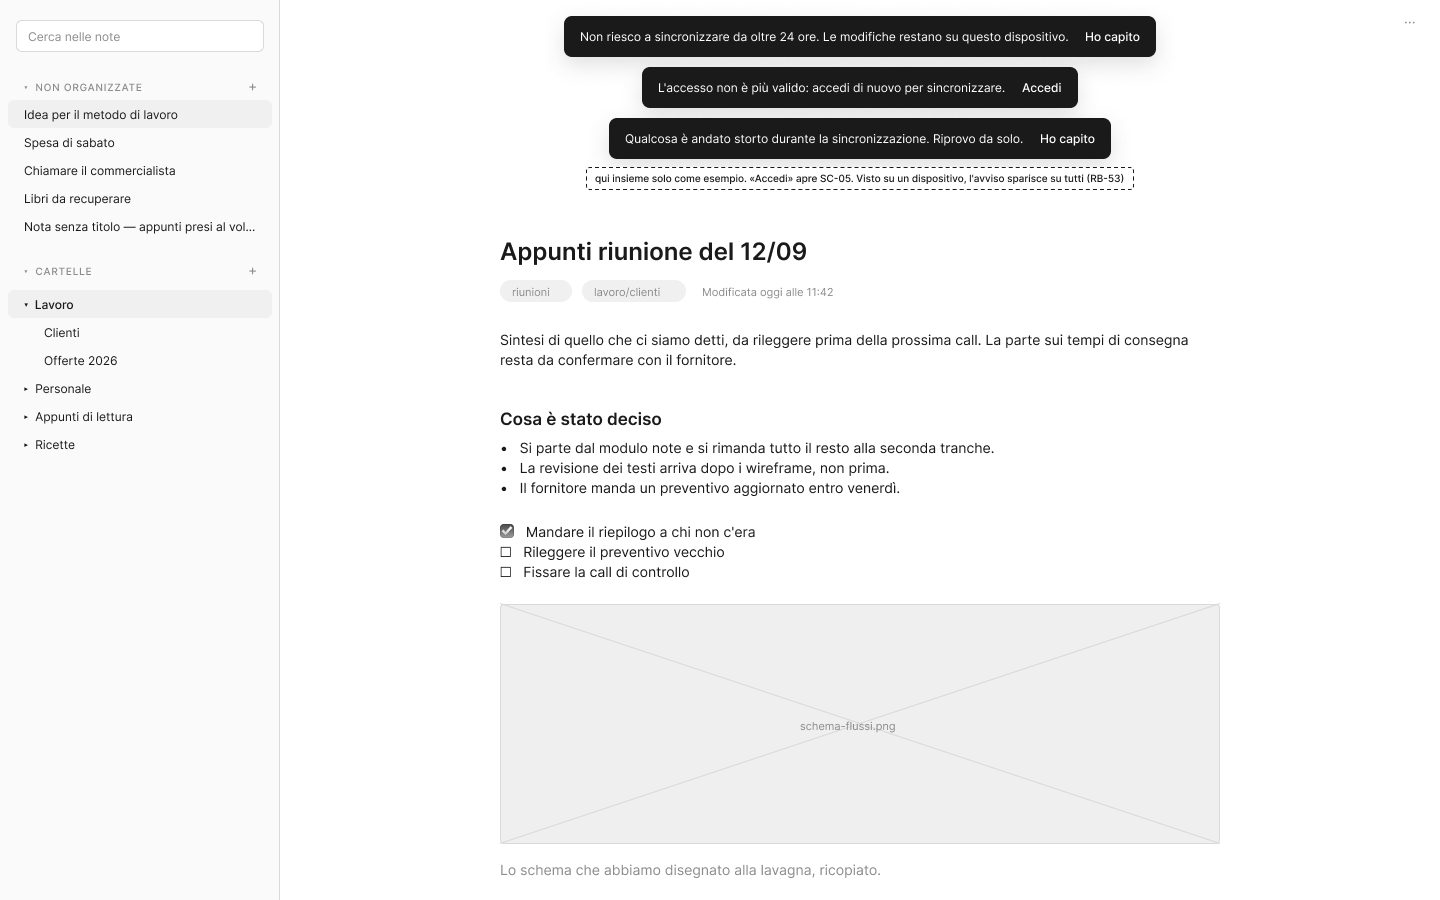
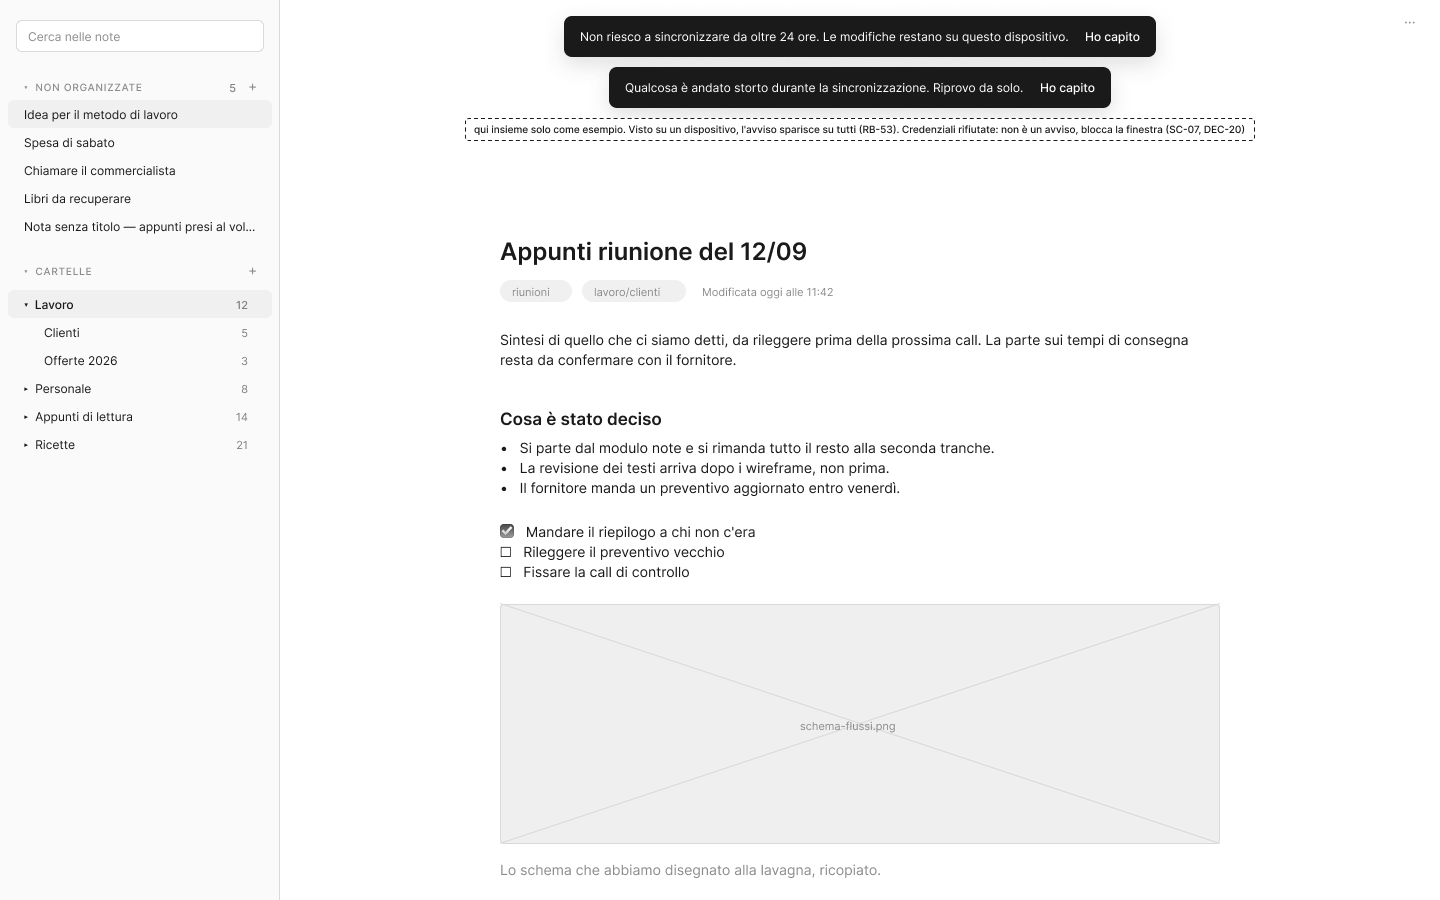
DEC-20 RB-57 RB-58 RB-59: blocco senza credenziali, deduzioni chiuse
- DEC-20: credenziali mancanti o rifiutate bloccano la finestra (SC-07 con Riprova);
  senza rete non si blocca (DEC-02). FL-08, RF-14, RB-40, EN-08 aggiornati
- RB-58: le immagini seguono la loro nota; RB-59: Annulla vale per tutta la nota aperta
- Design system: variante Azione di CMP-18 (Account, DEC-19), variante Blocco di CMP-19
- Wireframe: SC-07, avvisi di FL-07 ridotti a due, SC-05 e Account segnati non attivi

Changed region(s): [[0.3438, 0.0622, 0.875, 0.2178]]

diff --git a/docs/moduli/sincronizzazione/2-flussi.md b/docs/moduli/sincronizzazione/2-flussi.md
@@ -44,7 +44,7 @@ flowchart TD
 | SF-08 Connessione che cade a metà | La sincronizzazione non si completa | Nessun messaggio, se dura poco | Riprova alla sincronizzazione successiva (DEC-02) |
 | SF-20 Riferimenti spariti | Nota creata o spostata in una cartella eliminata altrove | Nessun messaggio | La cartella torna dal cestino (RB-30) |
 | SF-22 Modifica simultanea | Lo stesso elemento cambiato su due dispositivi | Avviso solo per le note in conflitto (RB-39) | DEC-06, RB-36, RB-37, RB-38 |
-| SF-25 Accesso revocato | Il server rifiuta le credenziali | Avviso (RB-40) | Si controlla la configurazione dell'app (FL-08) |
+| SF-25 Accesso revocato | Il server rifiuta le credenziali | Schermata di blocco (RB-57) | Si corregge la configurazione dell'app (FL-08) |
 | SF-30 Servizio esterno fuori uso | Server irraggiungibile oltre la soglia | Avviso (RB-40) | Le modifiche restano sulla copia di lavoro finché il server non torna |
 | SF-31 Notifiche perse | Un conflitto avviene mentre l'utente non guarda | L'avviso resta finché non viene visto | La nota in conflitto resta nella cartella, riconoscibile dal titolo (DEC-06) |
 | SF-32 Errore a metà operazione | Errore durante l'invio o la ricezione | Avviso (RB-40) | Riprova alla sincronizzazione successiva; la copia di lavoro resta intatta |
@@ -66,15 +66,21 @@ flowchart TD
     A[Installo il server: si generano le credenziali dell'installazione - DEC-13] --> B[Installo l'app con le credenziali nel file di configurazione - RB-54]
     B --> C[Apro Memodu]
     C --> D[Le note sono subito disponibili sulla copia di lavoro - RNF-01]
+    C --> M{Le credenziali ci sono nel file?}
+    M -- No --> G
+    M -- Sì --> D
     D --> E{Il server accetta le credenziali?}
     E -- Sì --> F[La sincronizzazione parte in background - FL-07]
-    E -- No --> G[Avviso: credenziali rifiutate - RB-40]
-    G --> H[Si continua a scrivere sulla copia di lavoro; si corregge la configurazione fuori dall'app]
-    H --> C
+    E -- Server irraggiungibile --> R[Si continua sulla copia di lavoro - DEC-02]
+    E -- No --> G[Schermata di blocco al posto della finestra - RB-57, SC-07]
+    G --> H[Si corregge la configurazione fuori dall'app]
+    H --> I[Riprova]
+    I --> M
 ```
 
 ### Percorsi alternativi
-- **Credenziali mancanti o rifiutate:** nessuna schermata di accesso. Compare l'avviso "credenziali rifiutate" e si continua a scrivere sulla copia di lavoro (DEC-02); la configurazione si corregge fuori dall'app.
+- **Credenziali mancanti o rifiutate:** la finestra non si apre; al suo posto c'è la schermata di blocco con Riprova (RB-57, DEC-20). Se il rifiuto arriva con l'app aperta, anche la nota rapida passa alla schermata di blocco: quello che era scritto resta sulla copia di lavoro. La configurazione si corregge fuori dall'app.
+- **Server irraggiungibile:** non blocca; si lavora sulla copia di lavoro (DEC-02, RB-40).
 - **Credenziali perse:** il recupero è rimandato (domanda aperta su RF-10).
 - **Cambio delle credenziali:** come si fa si decide in Fase 7.
 
@@ -82,7 +88,7 @@ flowchart TD
 | Sfiga | Rilevamento | Comunicazione | Via d'uscita |
 |---|---|---|---|
 | SF-07 Dimenticanze | Credenziali perse | Da definire | Rimandato: blocca la Definition of Ready di RF-14 |
-| SF-25 Accesso revocato | Il server rifiuta le credenziali | Avviso (RB-40) | Si corregge la configurazione dell'app |
+| SF-25 Accesso revocato | Credenziali mancanti o rifiutate dal server | Schermata di blocco (SC-07, RB-57) | Si corregge la configurazione dell'app e si preme Riprova |
 
 ### Sfighe considerate e scartate
 - SF-01 Doppio invio: collegarsi due volte non crea nulla di diverso.
@@ -102,7 +108,7 @@ flowchart TD
 | RB-37 | Se una nota è stata spostata in cartelle diverse su due dispositivi, resta nella posizione più recente | FL-07 |
 | RB-38 | Se una cartella è stata rinominata in modo diverso su due dispositivi, prende il nome più recente; accanto nasce una cartella vuota con l'altro nome, come segnale del conflitto | FL-07 |
 | RB-39 | Quando nasce una nota in conflitto (DEC-06) compare un avviso con il collegamento alla nota. La nota in conflitto ha lo stesso titolo seguito da "(copia in conflitto)" | FL-07 |
-| RB-40 | La sincronizzazione è invisibile finché va tutto bene. Compare un avviso solo per: errore di sincronizzazione (subito), credenziali rifiutate (subito), server irraggiungibile oltre una soglia (valore indicativo 24 ore, da fissare in Fase 7) | FL-07 |
+| RB-40 | La sincronizzazione è invisibile finché va tutto bene. Compare un avviso solo per: errore di sincronizzazione (subito), server irraggiungibile oltre una soglia (valore indicativo 24 ore, da fissare in Fase 7) | FL-07 |
 | RB-41 | ~~Uscendo (logout), le modifiche in attesa vengono sincronizzate e poi la copia di lavoro su quel dispositivo viene cancellata~~ Superata da DEC-13 | — |
 | RB-42 | ~~Non c'è limite ai tentativi di accesso con password sbagliata (rischio accettato, DEC-07)~~ Superata da DEC-13 | — |
 | RB-43 | ~~La password non ha requisiti di lunghezza o complessità (rischio accettato, DEC-07)~~ Superata da DEC-13 | — |
@@ -111,3 +117,4 @@ flowchart TD
 | RB-51 | Il nome di un dispositivo viene preso dal sistema (es. nome del PC) e si può cambiare dalle impostazioni | FL-07, FL-08 |
 | RB-53 | Gli avvisi si sincronizzano: compaiono su tutti i dispositivi e, visti su uno, non si mostrano più su nessuno | FL-07 |
 | RB-54 | Un dispositivo si collega all'installazione con le credenziali scritte nel file di configurazione dell'app all'installazione: non ci sono login, email, password né uscita (DEC-13) | FL-08 |
+| RB-57 | Con credenziali mancanti nel file di configurazione, o rifiutate dal server, la finestra principale e la nota rapida non si aprono: al loro posto c'è la schermata di blocco con Riprova, che rilegge la configurazione. Il server irraggiungibile non blocca (DEC-02). Quello che era scritto resta sulla copia di lavoro (DEC-20) | FL-08 |

diff --git a/docs/design-system/componenti.md b/docs/design-system/componenti.md
@@ -658,15 +658,16 @@ Scegliere un giorno scrive la data nel campo, salva (RB-06) e chiude il calendar
 ---
 
 ## CMP-18 – Riga di impostazione
-**Tipo:** composto (usa CMP-03 e CMP-04) · **Usato in:** SC-06 · **Figma:** pagina Componenti composti, [Riga di impostazione](https://www.figma.com/design/ulmeeMyPHDFR0lSR9NquuE?node-id=74-2255)
+**Tipo:** composto (usa CMP-01, CMP-03 e CMP-04) · **Usato in:** SC-06 · **Figma:** pagina Componenti composti, [Riga di impostazione](https://www.figma.com/design/ulmeeMyPHDFR0lSR9NquuE?node-id=74-2255)
 
 **Scopo:** una preferenza, con il suo controllo.
-**Quando usarlo:** in SC-06, una riga per impostazione, raggruppate sotto un titolo (Generale, Ricerca, Dispositivo).
+**Quando usarlo:** in SC-06, una riga per impostazione, raggruppate sotto un titolo (Generale, Ricerca, Dispositivo, Account).
 **Quando non usarlo:** per azioni (pulsante) o per informazioni non modificabili.
 
 ### Varianti e dimensioni
 - **Interruttore:** etichetta (Interfaccia/Normale) e descrizione (Interfaccia/Piccola, `testo-tenue`) a sinistra, interruttore (CMP-04) a destra; tutta la riga si clicca.
 - **Campo:** come sopra, con un campo (CMP-03, largo 200) a destra, es. la scorciatoia della nota rapida o il nome del dispositivo.
+- **Azione:** etichetta e valore (in `testo-tenue`) a sinistra, pulsante secondario (CMP-01) a destra, es. Email con Cambia o Esci. Serve alla sezione Account, progettata ma non attiva (DEC-19). Si attiva solo il pulsante, come il campo.
 - **Titolo di gruppo:** Interfaccia/Etichetta in `testo-tenue`, alto 32.
 - Largo 560, margini 12, 16 tra testo e controllo, su `sfondo-nota`.
 
@@ -692,16 +693,17 @@ Scegliere un giorno scrive la data nel campo, salva (RB-06) e chiude il calendar
 ---
 
 ## CMP-19 – Stato vuoto
-**Tipo:** composto (usa CMP-01 e CMP-02) · **Usato in:** SC-01, SC-03, SC-04 · **Figma:** pagina Componenti composti, [Stato vuoto](https://www.figma.com/design/ulmeeMyPHDFR0lSR9NquuE?node-id=75-2292)
+**Tipo:** composto (usa CMP-01 e CMP-02) · **Usato in:** SC-01, SC-03, SC-04, SC-07 · **Figma:** pagina Componenti composti, [Stato vuoto](https://www.figma.com/design/ulmeeMyPHDFR0lSR9NquuE?node-id=75-2292)
 
 **Scopo:** spiegare perché non c'è niente e cosa fare, al posto di un'area vuota (SF-16).
 **Quando usarlo:** nessuna nota aperta, cestino vuoto, nessuna cartella.
-**Quando non usarlo:** per la ricerca senza risultati (è nella card, CMP-13) o per gli errori (avviso, CMP-15).
+**Quando non usarlo:** per la ricerca senza risultati (è nella card, CMP-13) o per gli errori che non bloccano (avviso, CMP-15).
 
 ### Varianti e dimensioni
 - **Nota:** icona `file-text` 24, «Nessuna nota aperta», spiegazione e il pulsante primario «Nuova nota».
 - **Cestino:** icona elimina 24, «Il cestino è vuoto», spiegazione, senza azioni (niente Svuota cestino).
 - **Colonna:** una riga Interfaccia/Piccola in `testo-tenue`, «Nessuna cartella. Creane una con +».
+- **Blocco:** al posto della finestra quando le credenziali mancano o vengono rifiutate (SC-07, DEC-20). Icona errore 24 in `icona-errore`, «Memodu non riesce a collegarsi», cosa correggere e il pulsante primario «Riprova».
 - Icona in `icona-tenue`, titolo Interfaccia/Media, testo Interfaccia/Normale in `testo-tenue`, centrati, largo 320, 8 px di distanza.
 - I testi sono esempi nel tono di voce; quelli definitivi si scrivono in Fase 6.
 

diff --git a/docs/moduli/sincronizzazione/4-schermate.md b/docs/moduli/sincronizzazione/4-schermate.md
@@ -2,12 +2,12 @@
 
 <!-- Fasi 4 e 6 della guida. Wireframe e mockup restano nello strumento di design: qui si mettono i link. -->
 
-L'impostazione generale è in `moduli/interfaccia/4-schermate.md`. La sincronizzazione non ha schermate proprie: è invisibile finché va tutto bene (RB-40).
+L'impostazione generale è in `moduli/interfaccia/4-schermate.md`. La sincronizzazione è invisibile finché va tutto bene (RB-40). Ha una sola schermata propria, SC-07, quando le credenziali mancano o vengono rifiutate.
 
 ## Avvisi di sincronizzazione (FL-07)
 **Flussi:** FL-07 · **Componenti:** avviso
 
-- **Wireframe:** [i tre avvisi](https://www.figma.com/design/ioeRDMTxu3TEMoLN8rinAK/Memodu--Wireframe--Fase-4-?node-id=38-130) · [nota in conflitto](https://www.figma.com/design/ioeRDMTxu3TEMoLN8rinAK/Memodu--Wireframe--Fase-4-?node-id=32-147)
+- **Wireframe:** [i due avvisi](https://www.figma.com/design/ioeRDMTxu3TEMoLN8rinAK/Memodu--Wireframe--Fase-4-?node-id=38-130) · [nota in conflitto](https://www.figma.com/design/ioeRDMTxu3TEMoLN8rinAK/Memodu--Wireframe--Fase-4-?node-id=32-147)
 - **Esportazioni:** `immagini/SC-01-avvisi.png`
 
 In cima all'area della nota di SC-01, livello 50, uno alla volta:
@@ -15,11 +15,29 @@ In cima all'area della nota di SC-01, livello 50, uno alla volta:
 | Avviso | Quando | Azione |
 |---|---|---|
 | Server irraggiungibile | Oltre la soglia (indicativa 24 ore, RB-40) | Ho capito |
-| Credenziali rifiutate | Subito (SF-25) | Ho capito; la configurazione si corregge fuori dall'app (FL-08) |
 | Errore di sincronizzazione | Subito (SF-32) | Ho capito |
 | Nota in conflitto | Subito (RB-39) | Apri l'altra |
 
-Visto su un dispositivo, l'avviso sparisce su tutti (RB-53).
+Visto su un dispositivo, l'avviso sparisce su tutti (RB-53). Le credenziali rifiutate non sono un avviso: bloccano la finestra (SC-07).
+
+---
+
+## SC-07 – Collegamento bloccato
+**Flussi:** FL-08 · **Componenti:** stato vuoto (variante Blocco), pulsante
+
+- **Wireframe:** [collegamento bloccato](https://www.figma.com/design/ioeRDMTxu3TEMoLN8rinAK/Memodu--Wireframe--Fase-4-?node-id=51-169)
+- **Esportazioni:** `immagini/SC-07.png`
+- **Mockup:** [Fase 6]
+
+Al posto della finestra principale e della nota rapida quando le credenziali mancano nel file di configurazione o il server le rifiuta (RB-57, DEC-20). Finestra vuota con, al centro, icona di errore, «Memodu non riesce a collegarsi», una riga che spiega cosa correggere e il pulsante Riprova. Senza rete non compare (DEC-02).
+
+### Stati della schermata
+| Stato | Descrizione | Testo mostrato |
+|---|---|---|
+| Vuoto | Non previsto | — |
+| Caricamento | Dopo Riprova, il pulsante in caricamento | — |
+| Errore | È la schermata stessa; se Riprova fallisce resta com'è | Testo definitivo in Fase 6 |
+| Successo | Credenziali accettate: si apre SC-01 | — |
 
 ---
 

diff --git a/docs/avanzamento.md b/docs/avanzamento.md
@@ -11,7 +11,7 @@ Perimetro: solo cloud, un solo utente, installazione personale con credenziali p
 
 | Frammento | Requisiti | Fasi complete | Prossima fase | Note |
 |---|---|---|---|---|
-| Must | RF-01, RF-02, RF-03, RF-04, RF-05, RF-06, RF-08, RF-10, RF-11, RF-14, RF-15 | 1, 2, 3, 4 | 5 – Design system | Fase 4 completata (SC-01 … SC-06, wireflow cliccabile, test rapido fatto). Fase 5 quasi completa: moodboard e direzione C (DEC-12), regole visive 1–11, token in chiaro e scuro con contrasti verificati (DEC-14, DEC-16), icone Lucide (DEC-15), tutti i componenti CMP-01 … CMP-21 disegnati e documentati. Componenti approvati da Manuel Cucca (le deduzioni sui componenti valgono come regole). Per chiuderla: due decisioni aperte (allineamento nel tag, icona su Elimina). Nel frattempo sono arrivati in Fase 5: ID-15 (numero di note), DEC-17 (elimina definitivamente), DEC-19 (accesso progettato: CMP-22 e variante Password) |
+| Must | RF-01, RF-02, RF-03, RF-04, RF-05, RF-06, RF-08, RF-10, RF-11, RF-14, RF-15 | 1, 2, 3, 4 | 5 – Design system | Fase 4 completata (SC-01 … SC-06, wireflow cliccabile, test rapido fatto). Fase 5 quasi completa: moodboard e direzione C (DEC-12), regole visive 1–11, token in chiaro e scuro con contrasti verificati (DEC-14, DEC-16), icone Lucide (DEC-15), tutti i componenti CMP-01 … CMP-21 disegnati e documentati. Componenti approvati da Manuel Cucca (le deduzioni sui componenti valgono come regole). Per chiuderla: due decisioni aperte (allineamento nel tag, icona su Elimina). Nel frattempo sono arrivati in Fase 5: ID-15 (numero di note), DEC-17 (elimina definitivamente), DEC-19 (accesso progettato: CMP-22, variante Password, riga Account di CMP-18), DEC-20 (schermata di blocco SC-07, variante Blocco di CMP-19) |
 | Should | RF-07, RF-09, RF-12, RF-13, RF-16 | — | 1 – Requisiti | Mancano gli scenari d'uso |
 
 ### Idee parcheggiate
@@ -46,11 +46,7 @@ Tutto ciò che è stato rimandato, con la fase in cui va risolto.
 ## Deduzioni da confermare
 Comportamenti ricavati da un agente e non ancora confermati. Finché restano qui non valgono come regole.
 
-| Deduzione | Riguarda | Dove è annotata |
-|---|---|---|
-| Eliminando una nota, le sue immagini la seguono nel cestino | EN-02 | `moduli/note/8-test.md` |
-| Il comando Annulla vale per tutte le modifiche della nota aperta | RF-02 | `moduli/note/8-test.md` |
-| Con credenziali mancanti o rifiutate l'app funziona lo stesso sulla copia di lavoro, e mostra solo l'avviso | FL-08, DEC-13 | `moduli/sincronizzazione/2-flussi.md` |
+Nessuna: le ultime tre sono state confermate (RB-58, RB-59) o superate da DEC-20.
 
 ## Rischi accettati
 | Rischio | Decisione | Da rivedere |

diff --git a/docs/registri/decisioni/DEC-20-credenziali-rifiutate-bloccano-la-finestra.md b/docs/registri/decisioni/DEC-20-credenziali-rifiutate-bloccano-la-finestra.md
@@ -1,0 +1,29 @@
+# DEC-20 – Credenziali mancanti o rifiutate bloccano la finestra
+
+**Data:** 2026-09-25 · **Stato:** Accettata · **Idea di origine:** —
+
+## Contesto
+FL-08 conteneva una deduzione da confermare: con credenziali mancanti o rifiutate l'app funziona lo stesso sulla copia di lavoro e mostra solo un avviso. Manuel Cucca non l'ha confermata: senza credenziali valide l'app si blocca.
+
+## Opzioni valutate
+Come si blocca:
+A) Sola lettura: le note si leggono e si cercano, non si scrive.
+B) La finestra non si apre: al suo posto una schermata di blocco.
+
+Quando si blocca:
+A) Solo con credenziali mancanti o rifiutate dal server.
+B) Anche quando il server è irraggiungibile.
+
+## Decisione
+B e A: con credenziali mancanti nel file di configurazione, o rifiutate dal server, la finestra non si apre e compare una schermata di blocco (SC-07). Senza rete non si blocca nulla: si lavora sulla copia di lavoro come prima (DEC-02).
+
+- All'avvio l'app si apre subito sulla copia di lavoro (RNF-01); se mancano le credenziali si apre direttamente la schermata di blocco.
+- Se il server rifiuta le credenziali mentre l'app è aperta, la finestra principale e la nota rapida passano alla schermata di blocco. Quello che era già scritto resta sulla copia di lavoro e si sincronizza quando le credenziali tornano valide.
+- Riprova rilegge il file di configurazione e riprova il collegamento.
+
+## Conseguenze
+- Nuova RB-57 in FL-08; RB-40 non ha più l'avviso "credenziali rifiutate"; EN-08 perde quel tipo.
+- FL-08 riscritto; RF-14 con un punto sul blocco.
+- Nuova SC-07 Collegamento bloccato (wireframe); nell'avviso di FL-07 restano due tipi.
+- Design system: variante Blocco di CMP-19 Stato vuoto.
+- DEC-02 resta valida: il blocco non riguarda la rete.

diff --git a/docs/registri/storico.md b/docs/registri/storico.md
@@ -150,3 +150,6 @@
 | 25/09/2026 | Manuel Cucca | DEC-17: wireframe di SC-04 aggiornati con Elimina definitivamente; il pacchetto ha raggiunto la Fase 5 | Ciclo di vita dei pacchetti (DEC-18) |
 | 25/09/2026 | Manuel Cucca | Icone: restano in più tracciati; dopo uno scambio si ricolorano tutti i tracciati (chiusa la questione del colore) | Scelta di Manuel Cucca |
 | 25/09/2026 | Manuel Cucca | Design system: numero di note nelle righe di cartella e in Non organizzate (CMP-06, CMP-14, ID-15); variante Password di CMP-03 e nuovo CMP-22 Modulo di accesso (DEC-19); icona mostra (eye) | Fase 5 |
+| 25/09/2026 | Manuel Cucca | Deduzioni confermate: le immagini seguono la loro nota nel cestino, nel ripristino e nell'eliminazione definitiva (RB-58, EN-02); Annulla vale per tutte le modifiche della nota aperta (RB-59) | Risposta di Manuel Cucca |
+| 25/09/2026 | Manuel Cucca | DEC-20: con credenziali mancanti o rifiutate la finestra non si apre e compare la schermata di blocco SC-07 con Riprova; senza rete non si blocca. Nuova RB-57, FL-08 e RF-14 aggiornati, RB-40 ed EN-08 senza l'avviso di credenziali rifiutate; wireframe SC-07 e variante Blocco di CMP-19 | Deduzione di FL-08 non confermata da Manuel Cucca |
+| 25/09/2026 | Manuel Cucca | Design system: variante Azione di CMP-18 per la sezione Account di SC-06 (DEC-19); wireframe di SC-05 e SC-06 segnati come non attivi | DEC-19 |

diff --git a/docs/moduli/note/8-test.md b/docs/moduli/note/8-test.md
@@ -22,5 +22,5 @@
 | RF-03 | Il testo alternativo delle immagini non è stato scelto, ma WCAG 2.1 AA (RNF-04) lo richiede: va aggiunto? | Manuel Cucca | Sì: di default il nome del file, modificabile nelle impostazioni dell'immagine | |
 | RF-03 | Dimensione, allineamento e ritaglio non sono previsti dal markdown standard: come si salvano senza rompere l'esportazione (RF-13)? Da decidere in Fase 7 | | | |
 | RF-03 | Il ritaglio e la rotazione modificano l'immagine originale o si possono annullare in seguito? (Principio: nessun dato perso, DEC-06) | Manuel Cucca | No: sono reversibili, l'originale resta intatto | |
-| EN-02 | Eliminando una nota, le sue immagini la seguono nel cestino e tornano con lei se viene ripristinata? (Deduzione da confermare) | | | |
-| RF-02 | Il comando Annulla (Ctrl+Z / Cmd+Z) vale per tutte le modifiche della nota aperta, non solo per le immagini tolte (RB-46)? (Deduzione da confermare) | | | |
+| EN-02 | Eliminando una nota, le sue immagini la seguono nel cestino e tornano con lei se viene ripristinata? | Manuel Cucca | Sì, anche nell'eliminazione definitiva (RB-58) | |
+| RF-02 | Il comando Annulla (Ctrl+Z / Cmd+Z) vale per tutte le modifiche della nota aperta, non solo per le immagini tolte (RB-46)? | Manuel Cucca | Sì, tutte le modifiche della nota aperta (RB-59) | |

diff --git a/docs/moduli/note/2-flussi.md b/docs/moduli/note/2-flussi.md
@@ -249,3 +249,5 @@ La posizione di una nota (radice, cartella, cestino) è descritta nel diagramma 
 | RB-22 | Nei tag maiuscole e minuscole non contano (`Lavoro` e `lavoro` sono lo stesso tag, mostrato come è stato scritto la prima volta). Spazi, accenti ed emoji sono ammessi. I `/` all'inizio, alla fine o doppi si correggono in automatico | FL-04 |
 | RB-46 | Un'immagine tolta dal testo si recupera con Annulla (Ctrl+Z / Cmd+Z) finché la nota è aperta; chiusa la nota, l'immagine è cancellata definitivamente | FL-03 |
 | RB-47 | Copiando un'immagine da una nota a un'altra nasce un'immagine indipendente, con le sue impostazioni: un'immagine appartiene sempre a una sola nota | FL-03 |
+| RB-58 | Le immagini seguono la loro nota: eliminandola vanno nel cestino con lei, ripristinandola tornano, eliminandola definitivamente si cancellano | FL-03, FL-05 |
+| RB-59 | Annulla (Ctrl+Z / Cmd+Z) vale per tutte le modifiche della nota aperta: testo, formattazione, immagini e caselle. Non annulla le azioni fuori dalla nota (spostamenti, eliminazioni: per quelle c'è il cestino) | FL-02, FL-03 |

diff --git a/docs/moduli/sincronizzazione/1-requisiti.md b/docs/moduli/sincronizzazione/1-requisiti.md
@@ -31,9 +31,10 @@ Come *utente* voglio che Memodu si colleghi da solo alla mia installazione per s
 - L'installazione è personale: un solo utente e nessuna registrazione pubblica (DEC-05, DEC-13).
 - Installando il server si generano le credenziali dell'installazione; si scrivono nel file di configurazione dell'app quando la si installa (RB-54).
 - Non esistono schermate di accesso, email, password né comandi di uscita. L'avvio resta istantaneo (RNF-01).
+- Con credenziali mancanti o rifiutate Memodu non si apre: compare una schermata di blocco con Riprova. Senza rete invece si lavora come sempre (RB-57, DEC-20).
 - Il recupero delle credenziali perse è rimandato (vedi domande aperte su RF-10).
 
-**Collegamenti:** FL-08 · EN-05 · EN-06 · SC-00 · RF-10 · RNF-02
+**Collegamenti:** FL-08 · EN-05 · EN-06 · SC-07 · RF-10 · RNF-02
 
 ### Scenario d'uso
 Installo Memodu sul mio server e ottengo le credenziali dell'installazione. Installo l'app sul PC Windows con quelle credenziali: la apro e le mie note si sincronizzano, senza accedere. Faccio lo stesso sul Mac.

diff --git a/docs/moduli/interfaccia/4-schermate.md b/docs/moduli/interfaccia/4-schermate.md
@@ -70,7 +70,6 @@ Sono al centro della finestra, con un velo sul resto. L'azione principale sta a 
 | Sfiga | Testo definitivo |
 |---|---|
 | SF-30 Server irraggiungibile oltre la soglia | Fase 6 (RB-40) |
-| SF-25 Credenziali rifiutate | Fase 6 (RB-40) |
 | SF-32 Errore di sincronizzazione | Fase 6 (RB-40) |
 
 ---
@@ -96,7 +95,7 @@ Si apre dalla voce Impostazioni del menu `···`, al posto della nota, come il 
 |---|---|---|
 | Vuoto | Non previsto: ogni impostazione ha un valore di default | — |
 | Caricamento | Non previsto: le impostazioni sono sulla copia di lavoro | — |
-| Errore | Non previsto: senza account non ci sono credenziali da verificare (DEC-13) | — |
+| Errore | Non previsto nella prima versione: senza account non ci sono credenziali da verificare (DEC-13). Credenziali mancanti o rifiutate bloccano la finestra (SC-07) | — |
 | Successo | Nessun messaggio: il valore cambiato resta visibile | — |
 
 ---

diff --git a/docs/moduli/sincronizzazione/3-entita.md b/docs/moduli/sincronizzazione/3-entita.md
@@ -41,7 +41,7 @@ Il diagramma di tutto il sistema è in `moduli/note/3-entita.md`.
 | Attributo | Tipo | Obbligatorio | Vincoli | Note |
 |---|---|---|---|---|
 | Identificativo | Codice | Sì | Unico e stabile | Tecnico, non visibile |
-| Tipo | nota in conflitto \| errore di sincronizzazione \| credenziali rifiutate \| server irraggiungibile | Sì | | RB-39, RB-40 |
+| Tipo | nota in conflitto \| errore di sincronizzazione \| server irraggiungibile | Sì | | RB-39, RB-40. Le credenziali rifiutate non sono un avviso: bloccano la finestra (RB-57) |
 | Nota collegata | EN-01 | No | Solo per il tipo "nota in conflitto" | Il collegamento dell'avviso (RB-39) |
 | Dispositivo | EN-06 | Sì | | Il dispositivo su cui è nato il problema |
 | Data | Data e ora | Sì | | |

diff --git a/docs/moduli/note/3-entita.md b/docs/moduli/note/3-entita.md
@@ -81,6 +81,6 @@ erDiagram
 
 - **Chi la crea:** l'utente (FL-03).
 - **Chi la modifica:** l'utente, dalle impostazioni dell'immagine.
-- **Cancellazione:** togliendola dal testo si recupera con Annulla finché la nota è aperta, poi è definitiva (RB-46). Eliminando la nota, le sue immagini la seguono nel cestino.
+- **Cancellazione:** togliendola dal testo si recupera con Annulla finché la nota è aperta, poi è definitiva (RB-46). Eliminando la nota, le sue immagini la seguono nel cestino e tornano con lei (RB-58).
 - **Copia:** copiata in un'altra nota diventa un'immagine indipendente (RB-47).
 - **Dati sensibili:** tutti gli attributi, file compreso, sono cifrati end-to-end (DEC-08).
